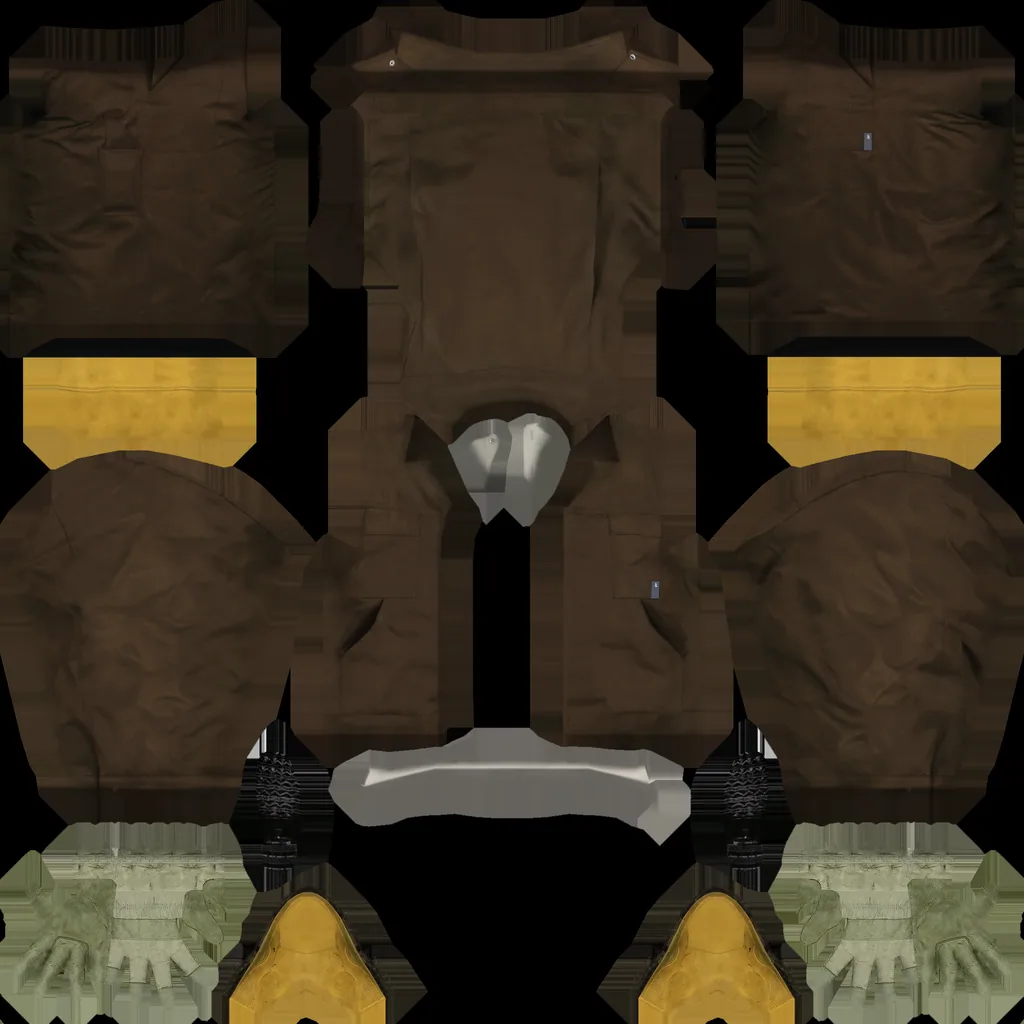
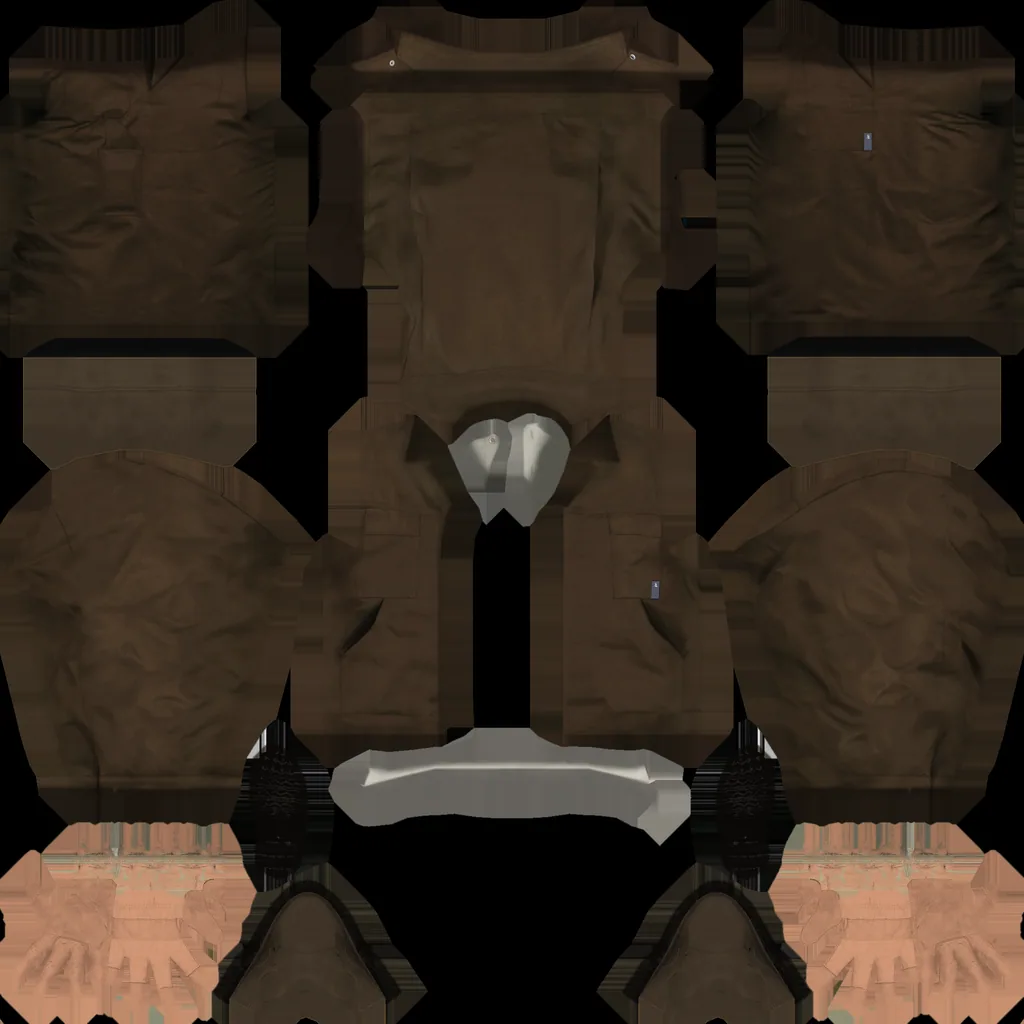
Fix Elias's street clothes and brighten chapter 4
His civilian texture still had the gardener avatar's green gloves and
yellow rubber boots; the outfit is now baked with bare hands and dark
boots. Chapter 4's night lighting was close to black on phone screens,
so ambient, moonlight and exposure are raised and Mia's hoop gets a lamp.

Claude-Session: https://claude.ai/code/session_016P15SbBybRWiasdpppsL2Z

diff --git a/src/levels/ch4.ts b/src/levels/ch4.ts
@@ -110,10 +110,10 @@ export class Chapter4 extends Chapter {
     const w = g.world;
     await w.setEnvironment({
       hdr: 'env/quarry.hdr', envIntensity: 0.12, background: 0x080b10,
-      fog: { color: 0x0c1016, density: 0.012 },
-      hemi: { sky: 0x2a3650, ground: 0x0e0c0a, intensity: 0.3 },
-      sun: { color: 0x8ea6d8, intensity: 0.5, dir: [0.4, 0.8, -0.3], shadows: true },
-      grade: { saturation: 0.82, contrast: 1.1, lift: [0.0, 0.005, 0.014], gain: [1.0, 1.0, 1.04], shadowTint: [0.9, 0.96, 1.12], highlightTint: [1.08, 1.0, 0.9], exposure: 1.12, bloom: 1.0, vignette: 0.6 },
+      fog: { color: 0x10151d, density: 0.011 },
+      hemi: { sky: 0x3a4a68, ground: 0x13110e, intensity: 0.62 },
+      sun: { color: 0x9ab2e0, intensity: 0.9, dir: [0.4, 0.8, -0.3], shadows: true },
+      grade: { saturation: 0.82, contrast: 1.1, lift: [0.0, 0.005, 0.014], gain: [1.0, 1.0, 1.04], shadowTint: [0.9, 0.96, 1.12], highlightTint: [1.08, 1.0, 0.9], exposure: 1.22, bloom: 1.0, vignette: 0.6 },
       reverb: 0.35,
     });
     this.kit = new Kit(w);
@@ -272,6 +272,9 @@ export class Chapter4 extends Chapter {
     net.position.set(hx, yy + 2.84, hz);
     w.root.add(net);
     w.physics.addBox({ x: hx, y: yy + 1.6, z: hz - 0.5 }, { x: 0.2, y: 3.2, z: 0.2 }, 0, { surface: 'metal' });
+    // Lamp clamped above the backboard so the court is playable at night.
+    kit.batch.add(cylinderBetween(v3(hx, yy + 3.25, hz - 0.5), v3(hx, yy + 4.1, hz - 0.5), 0.04, 8), steelH);
+    kit.bulb(L.emissive(0xffe0b0, 3), steelH, hx, yy + 4.15, hz - 0.3, 0xffdcaa, 2.6, 13, 'yard');
     this.hoop = { rim: v3(hx, yy + 3.05, hz), spots: [v3(hx - 1.1, yy, hz + 4.3), v3(hx + 1.1, yy, hz + 4.3)] };
   }
   private hoop = { rim: v3(0, 0, 0), spots: [v3(0, 0, 0), v3(0, 0, 0)] as [THREE.Vector3, THREE.Vector3] };

diff --git a/tools/tex.py b/tools/tex.py
@@ -40,7 +40,9 @@ def recolor(img, mask_path, rules, keys=None, protect_skin=False):
         sel = (hue >= key["hue"][0]) & (hue <= key["hue"][1]) & (sat >= key.get("sat", [0, 1])[0]) & (val >= key.get("val", [0, 1])[0])
         x0, y0, x1, y1 = key.get("rect", [0, 0, 1, 1])
         sel &= (u >= x0) & (u <= x1) & (v >= y0) & (v <= y1)
-        sel &= mask > 0
+        # "bleed" also takes matching texels outside the UV islands (edge padding seen through filtering).
+        if not key.get("bleed"):
+            sel &= mask > 0
         mask[sel] = key["to"]
     if protect_skin:
         # Bare skin (e.g. forearms with pushed-up sleeves) keeps its original colour.
